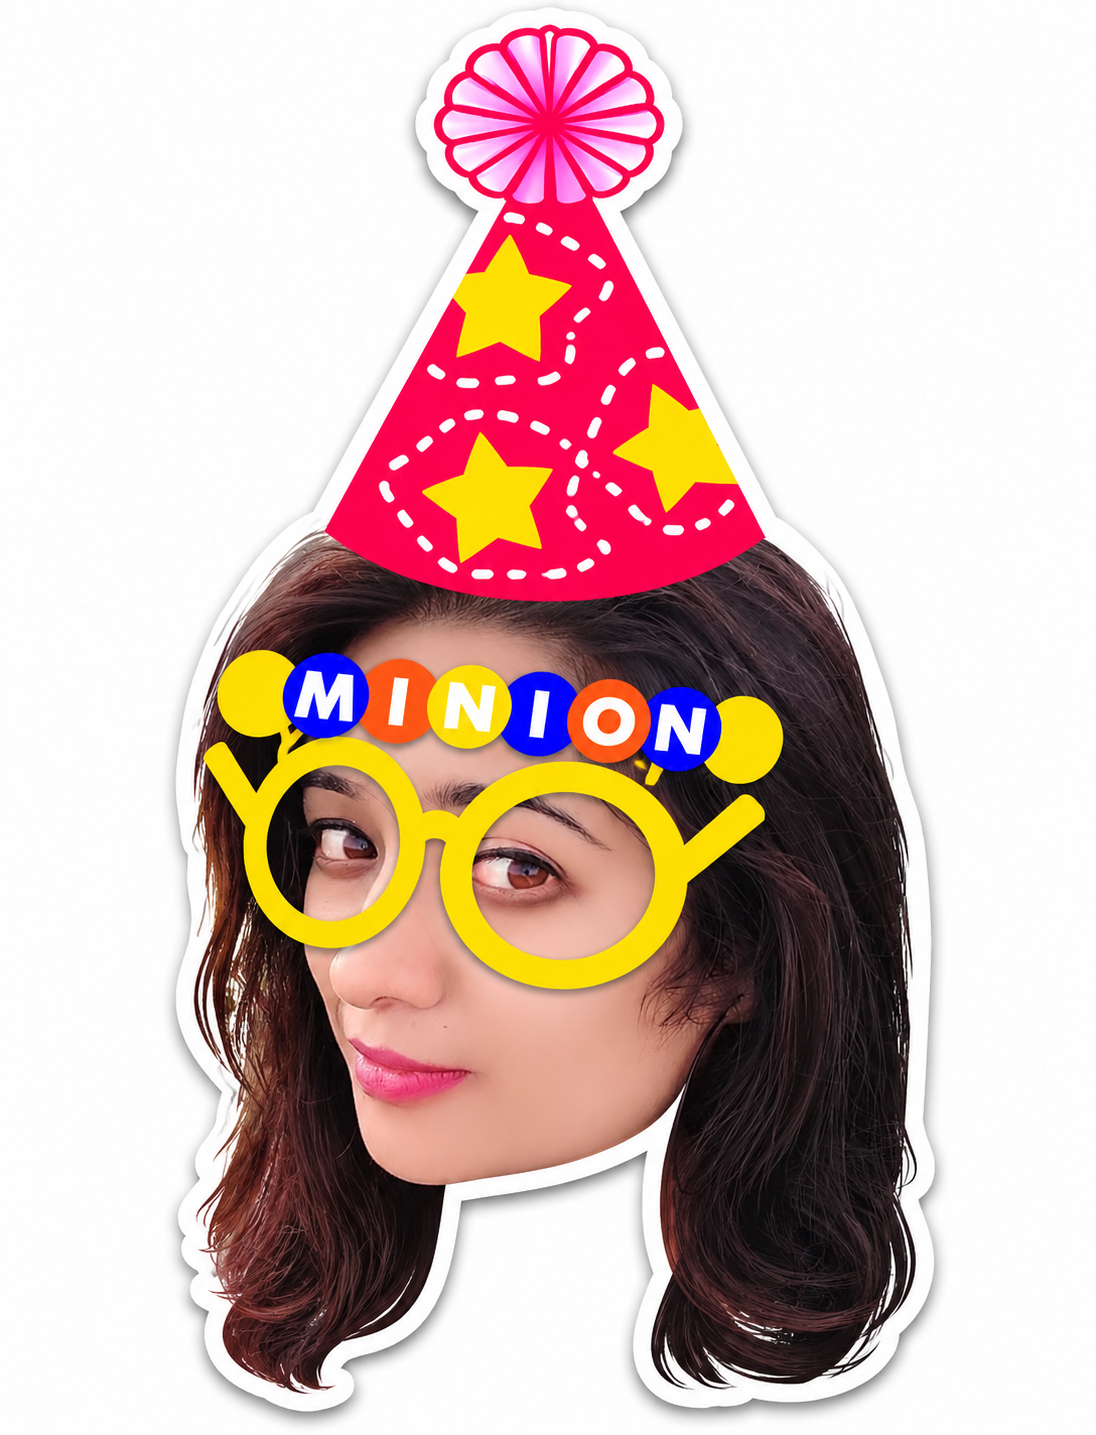
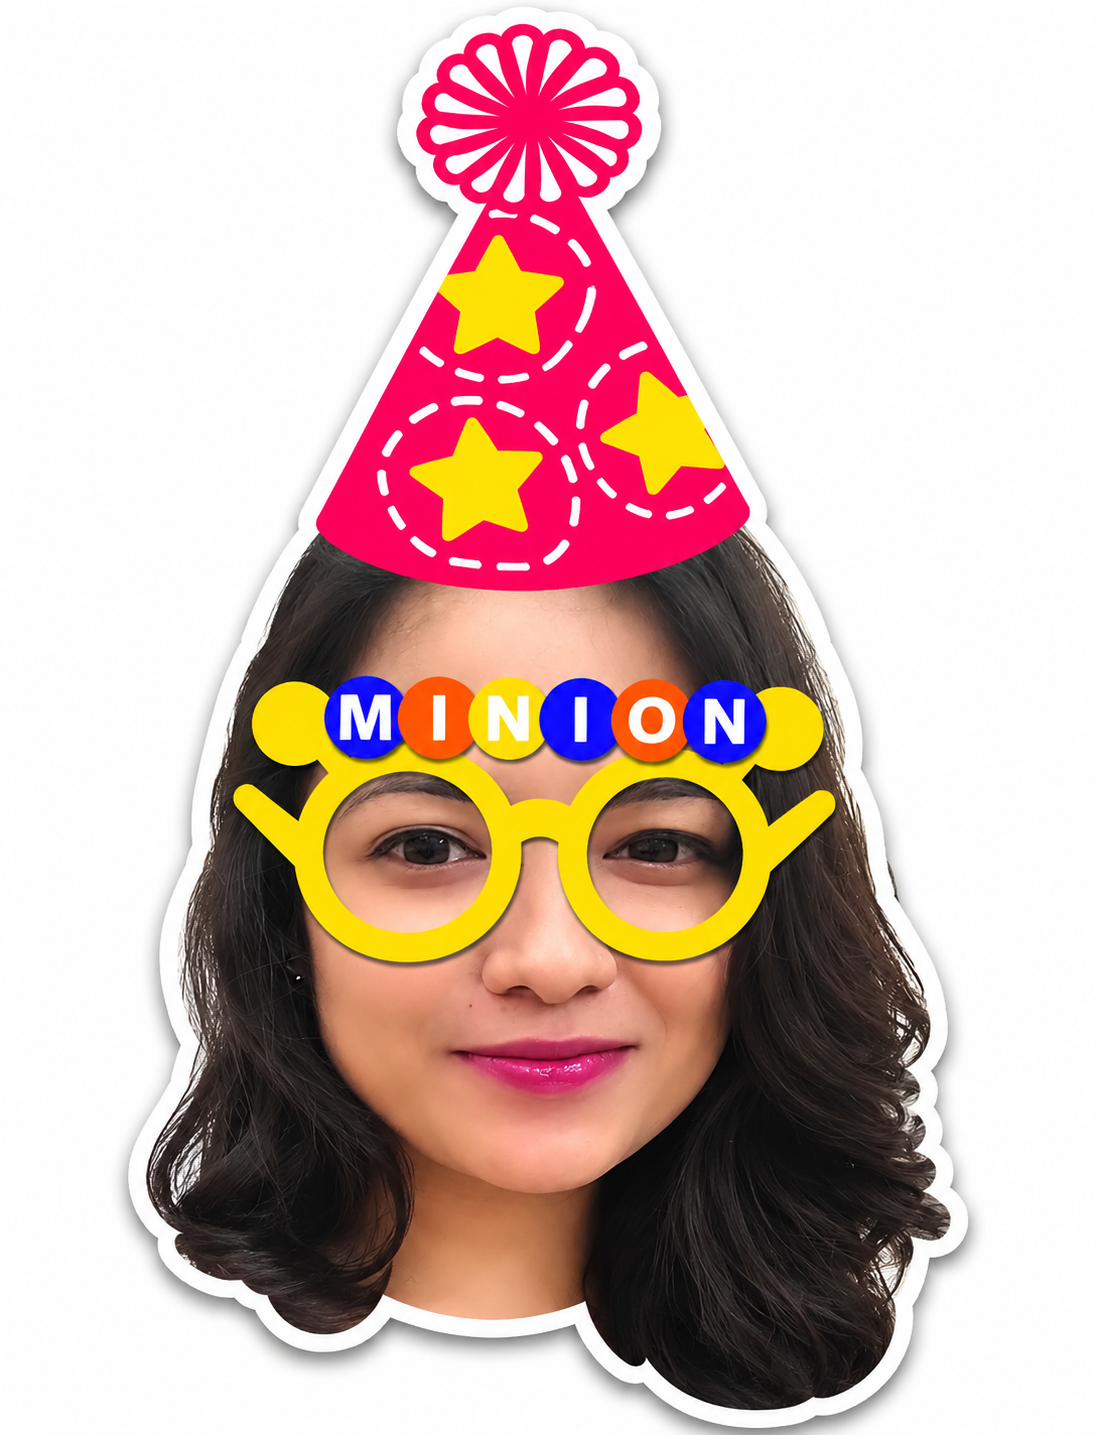
feat: name Nirupam Sir, new boss photo, five more minions, compact mobile tracker card
- Show Nirupam Sir's name in the hero (player tag + name plate), start
  screen, ribbon, finale headline, footer and page metadata
- Add a second "NIRUPAM SIR" bunting strand under HAPPY BIRTHDAY
- Use the new boss portrait (nirupam.png)
- Add Radhika, Shubh, Abhimanyu, Mukul and Ayaz with photos; update Neha's photo
- Shorten the Updated Tracker card on phones (preview rows and RPG stats
  hidden below sm; full sheet still opens from the button)

diff --git a/src/components/cards/FeatureCard.tsx b/src/components/cards/FeatureCard.tsx
@@ -43,7 +43,7 @@ export function FeatureCard({ feature }: FeatureCardProps) {
   return (
     <div
       onClick={() => sounds.playBlip()}
-      className={`relative group rounded-3xl p-6 sm:p-7 transition-all duration-300 hover:-translate-y-2 flex flex-col justify-between cursor-pointer ${
+      className={`relative group rounded-3xl p-4 sm:p-7 transition-all duration-300 hover:-translate-y-2 flex flex-col justify-between cursor-pointer ${
         feature.isHighlighted
           ? "bg-gradient-to-br from-cream via-cream to-paper border-2 border-gold shadow-[0_0_40px_rgba(201,162,77,0.35)] ring-2 ring-gold/40"
           : "bg-gradient-to-br from-cream/90 via-canvas/95 to-paper border border-gold/30 hover:border-gold hover:shadow-[0_15px_40px_-10px_rgba(201,162,77,0.35)]"
@@ -52,14 +52,14 @@ export function FeatureCard({ feature }: FeatureCardProps) {
       <div>
         {/* Highlighted VIP Banner for Tracker */}
         {feature.isHighlighted && (
-          <div className="mb-4 px-3.5 py-1.5 rounded-full bg-gradient-to-r from-gold via-gold-light to-gold text-ink font-mono text-[10px] font-black tracking-widest uppercase flex items-center justify-center gap-1.5 shadow-lg animate-pulse">
-            <Sparkles className="w-3.5 h-3.5 fill-current" />
-            <span>{feature.highlightBadge || "★ THE MAIN PART // UPDATED TRACKER ★"}</span>
+          <div className="mb-3 sm:mb-4 px-3 sm:px-3.5 py-1.5 rounded-full bg-gradient-to-r from-gold via-gold-light to-gold text-ink font-mono text-[9px] sm:text-[10px] font-black tracking-wider sm:tracking-widest uppercase flex items-center justify-center gap-1.5 shadow-lg animate-pulse">
+            <Sparkles className="w-3.5 h-3.5 fill-current shrink-0" />
+            <span className="truncate">{feature.highlightBadge || "★ THE MAIN PART // UPDATED TRACKER ★"}</span>
           </div>
         )}
 
         {/* Top Header: ID, Skill Type and Mode */}
-        <div className="flex items-center justify-between gap-2 mb-4">
+        <div className="flex items-center justify-between gap-2 mb-3 sm:mb-4">
           <div className="flex items-center gap-2">
             <span
               className={`text-xl font-mono font-extrabold transition-colors ${
@@ -121,7 +121,7 @@ export function FeatureCard({ feature }: FeatureCardProps) {
 
         {/* Embedded Interactive Spreadsheet Simulation for Updated Tracker */}
         {feature.isHighlighted && (
-          <div className="my-3.5 p-3 rounded-2xl bg-paper/95 border border-gold/50 font-mono text-[11px] shadow-inner space-y-2">
+          <div className="my-3 sm:my-3.5 p-3 rounded-2xl bg-paper/95 border border-gold/50 font-mono text-[11px] shadow-inner space-y-2">
             <div className="flex flex-wrap items-center justify-between gap-1.5 pb-1.5 border-b border-gold/20 text-gold-deep">
               <span className="font-bold flex items-center gap-1.5 text-[10px] min-w-0">
                 <FileSpreadsheet className="w-3.5 h-3.5 text-gold-deep shrink-0" />
@@ -134,7 +134,7 @@ export function FeatureCard({ feature }: FeatureCardProps) {
                 UPDATED (LIVE)
               </span>
             </div>
-            <div className="space-y-1.5 text-[10px]">
+            <div className="hidden sm:block space-y-1.5 text-[10px]">
               <div className="flex flex-col items-start gap-0.5 sm:flex-row sm:items-center sm:justify-between text-ink bg-ink/5 p-1.5 rounded">
                 <span className="sm:pr-2">1. Birthday Tribute Surprise</span>
                 <span className="text-emerald-700 font-bold shrink-0">COMPLETED ✅</span>
@@ -148,8 +148,8 @@ export function FeatureCard({ feature }: FeatureCardProps) {
                 <span className="text-purple-700 font-bold shrink-0">+200% EXCEEDED 🚀</span>
               </div>
             </div>
-            <div className="pt-2 border-t border-ink/15 flex items-center justify-between">
-              <span className="text-[9px] text-ink-soft">FORMULA: =CONCAT(LOVE, TARGETS)</span>
+            <div className="sm:pt-2 sm:border-t border-ink/15 flex items-center justify-between">
+              <span className="hidden sm:inline text-[9px] text-ink-soft">FORMULA: =CONCAT(LOVE, TARGETS)</span>
               <EasterEggModal
                 trigger={(open) => (
                   <button
@@ -158,7 +158,7 @@ export function FeatureCard({ feature }: FeatureCardProps) {
                       open();
                     }}
                     type="button"
-                    className="text-[10px] font-bold text-gold-deep hover:underline flex items-center gap-1 cursor-pointer bg-gold/15 px-2 py-0.5 rounded border border-gold/40"
+                    className="w-full sm:w-auto justify-center text-[10px] font-bold text-gold-deep hover:underline flex items-center gap-1 cursor-pointer bg-gold/15 px-2 py-1.5 sm:py-0.5 rounded border border-gold/40"
                   >
                     <span>OPEN SPREADSHEET</span>
                     <span>➔</span>
@@ -170,14 +170,14 @@ export function FeatureCard({ feature }: FeatureCardProps) {
         )}
 
         {/* Feature Quote */}
-        <div className="my-4 p-3 rounded-xl bg-paper/70 border border-ink/10 relative">
+        <div className="my-3 sm:my-4 p-3 rounded-xl bg-paper/70 border border-ink/10 relative">
           <p className="text-xs sm:text-sm text-ink/90 italic font-sans leading-relaxed">
             &ldquo;{feature.quote}&rdquo;
           </p>
         </div>
 
         {/* RPG Attributes: Mana Cost & Cooldown */}
-        <div className="grid grid-cols-2 gap-2 mb-4 text-[10px] font-mono">
+        <div className="hidden sm:grid grid-cols-2 gap-2 mb-4 text-[10px] font-mono">
           <div className="p-1.5 rounded bg-cream border border-ink/10">
             <span className="text-ink-soft block text-[9px]">MANA CONSUMPTION</span>
             <span className="text-blue-700 font-bold">{feature.manaCost}</span>

diff --git a/src/components/game/BirthdayVibes.tsx b/src/components/game/BirthdayVibes.tsx
@@ -6,7 +6,18 @@ import React from "react";
 const FLAG_COLORS = ["bg-gold", "bg-blush", "bg-gold-light", "bg-sky"];
 
 /** "HAPPY BIRTHDAY" pennant banner hanging on a curved string. */
-export function BirthdayBunting({ text = "HAPPY BIRTHDAY", className = "" }: { text?: string; className?: string }) {
+export function BirthdayBunting({
+  text = "HAPPY BIRTHDAY",
+  className = "",
+  widthClass = "max-w-2xl",
+  colorOffset = 0,
+}: {
+  text?: string;
+  className?: string;
+  widthClass?: string;
+  /** Shifts the colour cycle so a second strand doesn't mirror the first. */
+  colorOffset?: number;
+}) {
   const chars = [...text];
   const n = chars.length;
   // String is a quadratic curve M0,2 Q50,30 100,2 in a 100x20 viewBox stretched to the banner height.
@@ -14,7 +25,7 @@ export function BirthdayBunting({ text = "HAPPY BIRTHDAY", className = "" }: { t
   const H = 26; // px height of the string's SVG
 
   return (
-    <div className={`relative w-full max-w-2xl mx-auto select-none pointer-events-none ${className}`} aria-label={text} role="img">
+    <div className={`relative w-full ${widthClass} mx-auto select-none pointer-events-none ${className}`} aria-label={text} role="img">
       <svg className="absolute inset-x-0 top-0 w-full" style={{ height: H }} viewBox="0 0 100 20" preserveAspectRatio="none" aria-hidden>
         <path d="M0 2 Q50 30 100 2" fill="none" stroke="var(--color-gold-dark)" strokeWidth="0.6" vectorEffect="non-scaling-stroke" />
       </svg>
@@ -33,7 +44,7 @@ export function BirthdayBunting({ text = "HAPPY BIRTHDAY", className = "" }: { t
           return (
             <span key={i} className="relative" style={{ top, transform: `rotate(${tilt}deg)` }}>
               <span
-                className={`bunting-flag block w-[19px] h-[26px] sm:w-8 sm:h-11 ${FLAG_COLORS[i % FLAG_COLORS.length]} shadow-sm`}
+                className={`bunting-flag block w-[19px] h-[26px] sm:w-8 sm:h-11 ${FLAG_COLORS[(i + colorOffset) % FLAG_COLORS.length]} shadow-sm`}
                 style={{ animationDelay: `${(i % 5) * 0.35}s` }}
               >
                 <span className="block pt-[3px] sm:pt-1.5 text-center text-[10px] sm:text-base font-extrabold font-hero text-ink leading-none">
@@ -80,7 +91,7 @@ export function FloatingBalloons({ className = "" }: { className?: string }) {
   );
 }
 
-const RIBBON_ITEMS = ["HAPPY BIRTHDAY, BOSS", "🎂", "LEVEL 99 → 100", "🎉", "THE ONE OF ONE", "🎈", "TRACKER STATUS: CELEBRATING", "🥳"];
+const RIBBON_ITEMS = ["HAPPY BIRTHDAY, NIRUPAM SIR", "🎂", "LEVEL 99 → 100", "🎉", "THE ONE OF ONE", "🎈", "TRACKER STATUS: CELEBRATING", "🥳"];
 
 /** Scrolling "Happy Birthday" ribbon used as a divider between sections. */
 export function BirthdayRibbon({ reverse = false }: { reverse?: boolean }) {
@@ -98,7 +109,7 @@ export function BirthdayRibbon({ reverse = false }: { reverse?: boolean }) {
     <div className="overflow-hidden py-3">
     <div
       className="relative overflow-hidden py-2.5 sm:py-3 bg-gradient-to-r from-gold-light via-gold to-gold-light border-y border-gold-dark/30 -rotate-1 scale-[1.02] shadow-[0_6px_20px_rgba(201,162,77,0.25)]"
-      aria-label="Happy Birthday, Boss!"
+      aria-label="Happy Birthday, Nirupam Sir!"
       role="img"
     >
       <div className={`marquee flex w-max ${reverse ? "marquee-reverse" : ""}`} aria-hidden>

diff --git a/src/app/layout.tsx b/src/app/layout.tsx
@@ -35,18 +35,18 @@ const spaceGrotesk = Space_Grotesk({
 
 export const metadata: Metadata = {
   metadataBase: new URL("https://contentify-tribute.vercel.app"),
-  title: "The Boss of One of a Kind | A Contentify Birthday Tribute",
+  title: "Happy Birthday, Nirupam Sir | The Boss of One of a Kind",
   description:
-    "A special birthday tribute celebrating the legendary leadership, trackers, automation obsession and kindness behind Contentify.",
+    "A special birthday tribute celebrating Nirupam Sir: the legendary leadership, trackers, automation obsession and kindness behind Contentify.",
   robots: {
     index: false,
     follow: false,
     nocache: true,
   },
   openGraph: {
-    title: "The Boss of One of a Kind | A Contentify Birthday Tribute",
+    title: "Happy Birthday, Nirupam Sir | The Boss of One of a Kind",
     description:
-      "A special birthday tribute celebrating the legendary leadership, trackers, automation obsession and kindness behind Contentify.",
+      "A special birthday tribute celebrating Nirupam Sir: the legendary leadership, trackers, automation obsession and kindness behind Contentify.",
     url: "https://contentify.com",
     siteName: "Contentify Tributes",
     images: [
@@ -54,7 +54,7 @@ export const metadata: Metadata = {
         url: "/og-image.png",
         width: 1200,
         height: 630,
-        alt: "The Boss of One of a Kind - Contentify Birthday Tribute",
+        alt: "Happy Birthday, Nirupam Sir - A Contentify Birthday Tribute",
       },
     ],
     locale: "en_US",
@@ -62,9 +62,9 @@ export const metadata: Metadata = {
   },
   twitter: {
     card: "summary_large_image",
-    title: "The Boss of One of a Kind | A Contentify Birthday Tribute",
+    title: "Happy Birthday, Nirupam Sir | The Boss of One of a Kind",
     description:
-      "A special birthday tribute celebrating the legendary leadership, trackers, automation obsession and kindness behind Contentify.",
+      "A special birthday tribute celebrating Nirupam Sir: the legendary leadership, trackers, automation obsession and kindness behind Contentify.",
     images: ["/og-image.png"],
   },
 };

diff --git a/src/data/employees.ts b/src/data/employees.ts
@@ -158,4 +158,44 @@ export const employeesData: Employee[] = [
     image: "/images/employees/bikram.png",
     birthdayMessage: "Happy Birthday, Pom! Keep rocking and stay the same crazy guy you've always been!",
   },
+  {
+    id: 19,
+    name: "Radhika",
+    designation: "The Other Oldest Minion",
+    image: "/images/employees/radhika.png",
+    birthdayMessage:
+      "Happy Birthday sir!🎉 Wishing you lots of happiness, success, and good health. Thank you for your constant support and guidance. Grateful to learn from you. Hope you have a wonderful year ahead! 😊",
+  },
+  {
+    id: 20,
+    name: "Shubh",
+    designation: "The Other Oldest Minion",
+    image: "/images/employees/shubh.png",
+    birthdayMessage:
+      "Wishing you a very Happy Birthday, Sir! May this year bring you immense happiness, good health, success, and new achievements. Wishing you continued growth and prosperity in everything you do. Have a wonderful year ahead, Sir!",
+  },
+  {
+    id: 21,
+    name: "Abhimanyu",
+    image: "/images/employees/abhimanyu.png",
+    birthdayMessage:
+      "Happy Birthday, Sir! 🎉 Wishing you a fantastic year ahead filled with happiness, good health and lots of success. Have a great day!",
+  },
+  {
+    id: 22,
+    name: "Mukul",
+    designation: "The Prodigal Minion",
+    image: "/images/employees/mukul.jpeg",
+    funnyMessage:
+      'You always say "Focus, Win the Match" & I am at the same way/answer "Jii" "Haa". But you are the one who makes people Man of the Series & we all know you make us the best players of DM.',
+    birthdayMessage: "Wish you a very happy birthday Coach Saabh #Contentify Boss",
+  },
+  {
+    id: 23,
+    name: "Ayaz",
+    designation: "The Other Google Ads Minion",
+    image: "/images/employees/ayaz.png",
+    birthdayMessage:
+      "Happy Birthday, Sir! 🎂 Wishing you a year full of happiness, good health and success. Thank you for your guidance and support. Have a wonderful day!",
+  },
 ];

diff --git a/src/components/game/CharacterIntro.tsx b/src/components/game/CharacterIntro.tsx
@@ -143,6 +143,7 @@ export function CharacterIntro() {
       {/* Birthday bunting */}
       <div className="px-3 sm:px-6 -mt-2 mb-4 sm:mb-6">
         <BirthdayBunting />
+        <BirthdayBunting text="NIRUPAM SIR" widthClass="max-w-[19rem] sm:max-w-lg" colorOffset={2} className="-mt-3 sm:-mt-2" />
       </div>
 
       {/* Main Character Showcase Screen */}
@@ -168,6 +169,13 @@ export function CharacterIntro() {
                 ONE OF A KIND.
               </span>
             </h1>
+
+            {/* Player name plate */}
+            <p className="flex items-center justify-center lg:justify-start gap-3 text-sm sm:text-base font-mono font-bold tracking-[0.2em] sm:tracking-[0.3em] text-ink uppercase">
+              <span className="hidden sm:block h-px w-12 bg-gold" aria-hidden />
+              Player 1 · <span className="text-gold-deep">{bossData.name}</span>
+              <span className="hidden sm:block h-px w-12 bg-gold" aria-hidden />
+            </p>
 
             {/* Subheadline from Google Doc */}
             <div className="inline-block p-1 px-3 rounded-lg bg-canvas border-l-4 border-gold text-xs sm:text-sm font-mono text-gold-deep">

diff --git a/src/data/boss.ts b/src/data/boss.ts
@@ -1,11 +1,12 @@
 import { Stat } from "@/types";
 
 export const bossData = {
-  name: "The Boss",
+  name: "Nirupam Sir",
+  firstName: "Nirupam",
   title: "THE BOSS OF ONE OF A KIND.",
-  subheadline: "Introducing the ultimate-level boss. The man. The myth. The legend.",
+  subheadline: "Introducing the ultimate-level boss, Nirupam. The man. The myth. The legend.",
   company: "Contentify",
-  portrait: "/images/boss/boss-portrait.jpg",
+  portrait: "/images/boss/nirupam.png",
   characterClass: "SUPREME ARCHITECT · S-TIER LEADER",
   level: 99,
   rarity: "MYTHIC ★★★★★★",
@@ -82,7 +83,7 @@ export const bossData = {
   ],
   appreciationClosing:
     "Thank you for being the kind of leader who doesn't just build a better team, but helps build better people.",
-  finaleHeadline: "HAPPY BIRTHDAY, BOSS!",
+  finaleHeadline: "HAPPY BIRTHDAY, NIRUPAM SIR!",
   finaleTagline: "THE ORIGINAL. THE ICON. THE ONE OF ONE.",
   finaleCopy:
     "From your favourite minions at Contentify, with love, laughter and all the trackers we could ever need. ❤",

diff --git a/src/components/game/StartScreen.tsx b/src/components/game/StartScreen.tsx
@@ -77,7 +77,7 @@ export function StartScreen() {
           The Boss of <span className="text-gold-deep">One of a Kind</span>
         </h1>
         <p className="mt-3 text-xs sm:text-sm font-mono text-ink-soft tracking-widest uppercase">
-          Birthday Edition · Player 1: The Boss · LVL 99
+          Birthday Edition · Player 1: Nirupam Sir · LVL 99
         </p>
 
         <div className="mt-8 w-full rounded-2xl border border-gold/30 bg-canvas/80 p-4 text-left">

diff --git a/src/components/layout/Footer.tsx b/src/components/layout/Footer.tsx
@@ -28,7 +28,7 @@ export function Footer() {
               </span>
             </div>
             <p className="mt-2 text-sm text-ink-soft max-w-sm">
-              The Boss of One of a Kind, An internal birthday tribute crafted with boundless admiration, humor, and 0 unupdated rows.
+              An internal birthday tribute to Nirupam Sir, the Boss of One of a Kind, crafted with boundless admiration, humor, and 0 unupdated rows.
             </p>
           </div>
 

diff --git a/src/components/ui/EasterEggModal.tsx b/src/components/ui/EasterEggModal.tsx
@@ -26,7 +26,7 @@ export function EasterEggModal({ trigger, className }: EasterEggModalProps = {})
     {
       id: "ROW-02",
       task: "Put this Birthday on a Tracker",
-      owner: "The Boss",
+      owner: "Nirupam Sir",
       formula: "=IF(BOSS_ASKS, 'FORBIDDEN', 'SUCCESS')",
       status: "BLOCKED BY MINIONS",
       priority: "HIGH",

diff --git a/src/components/ui/ConfettiButton.tsx b/src/components/ui/ConfettiButton.tsx
@@ -50,7 +50,7 @@ export function fireCelebrationConfetti() {
 }
 
 export function ConfettiButton({
-  label = "Celebrate The Boss! 🎂",
+  label = "Celebrate Nirupam Sir! 🎂",
   className = "",
   variant = "primary",
 }: ConfettiButtonProps) {
